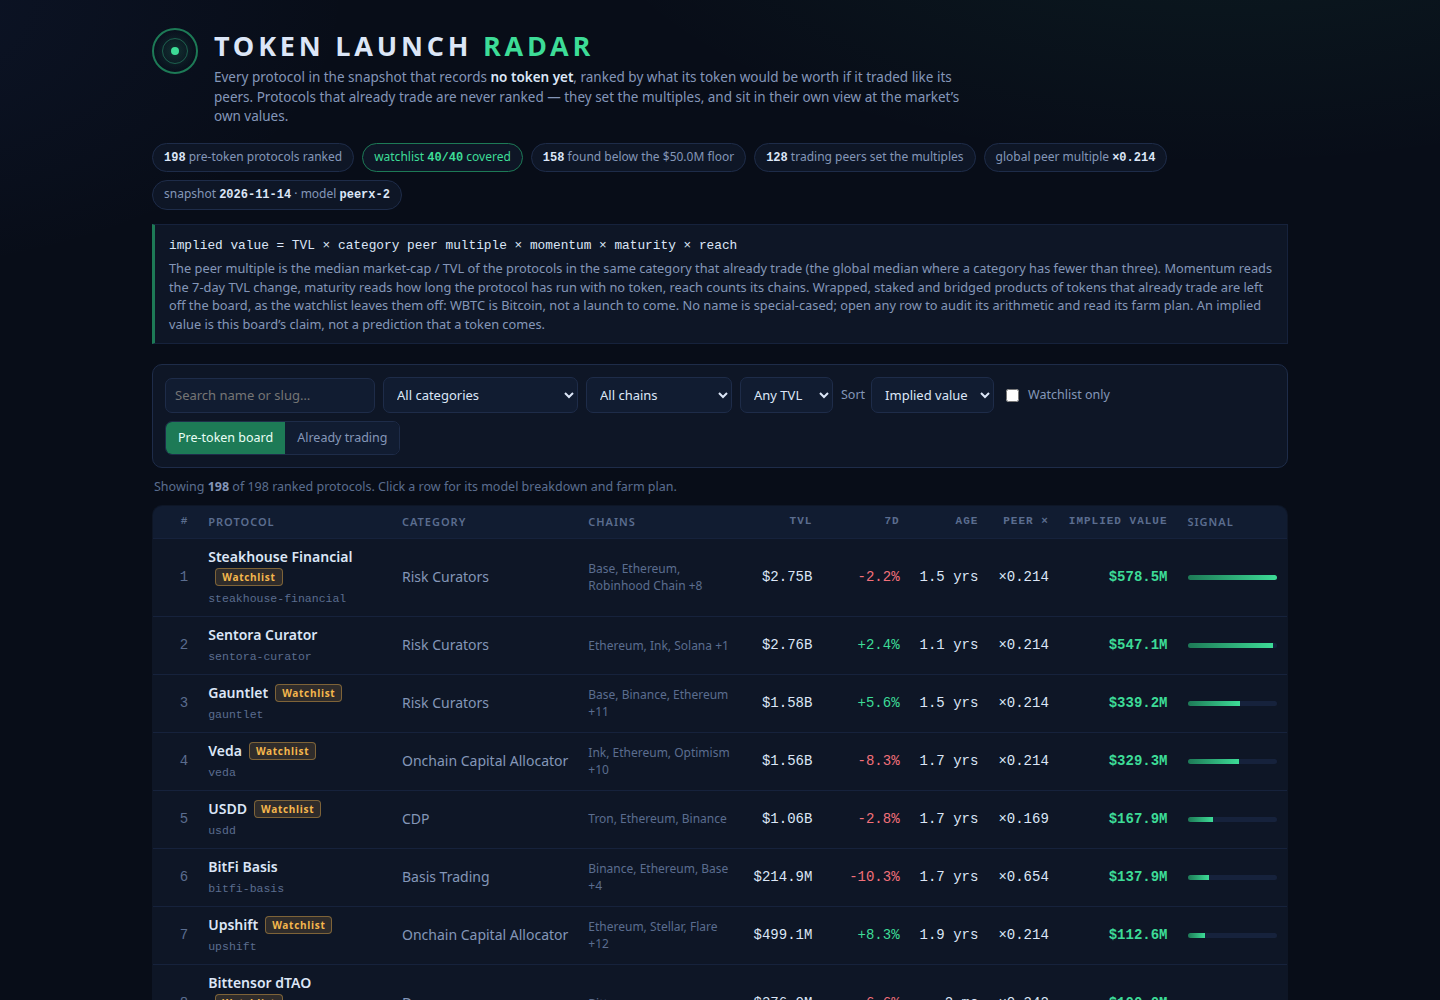
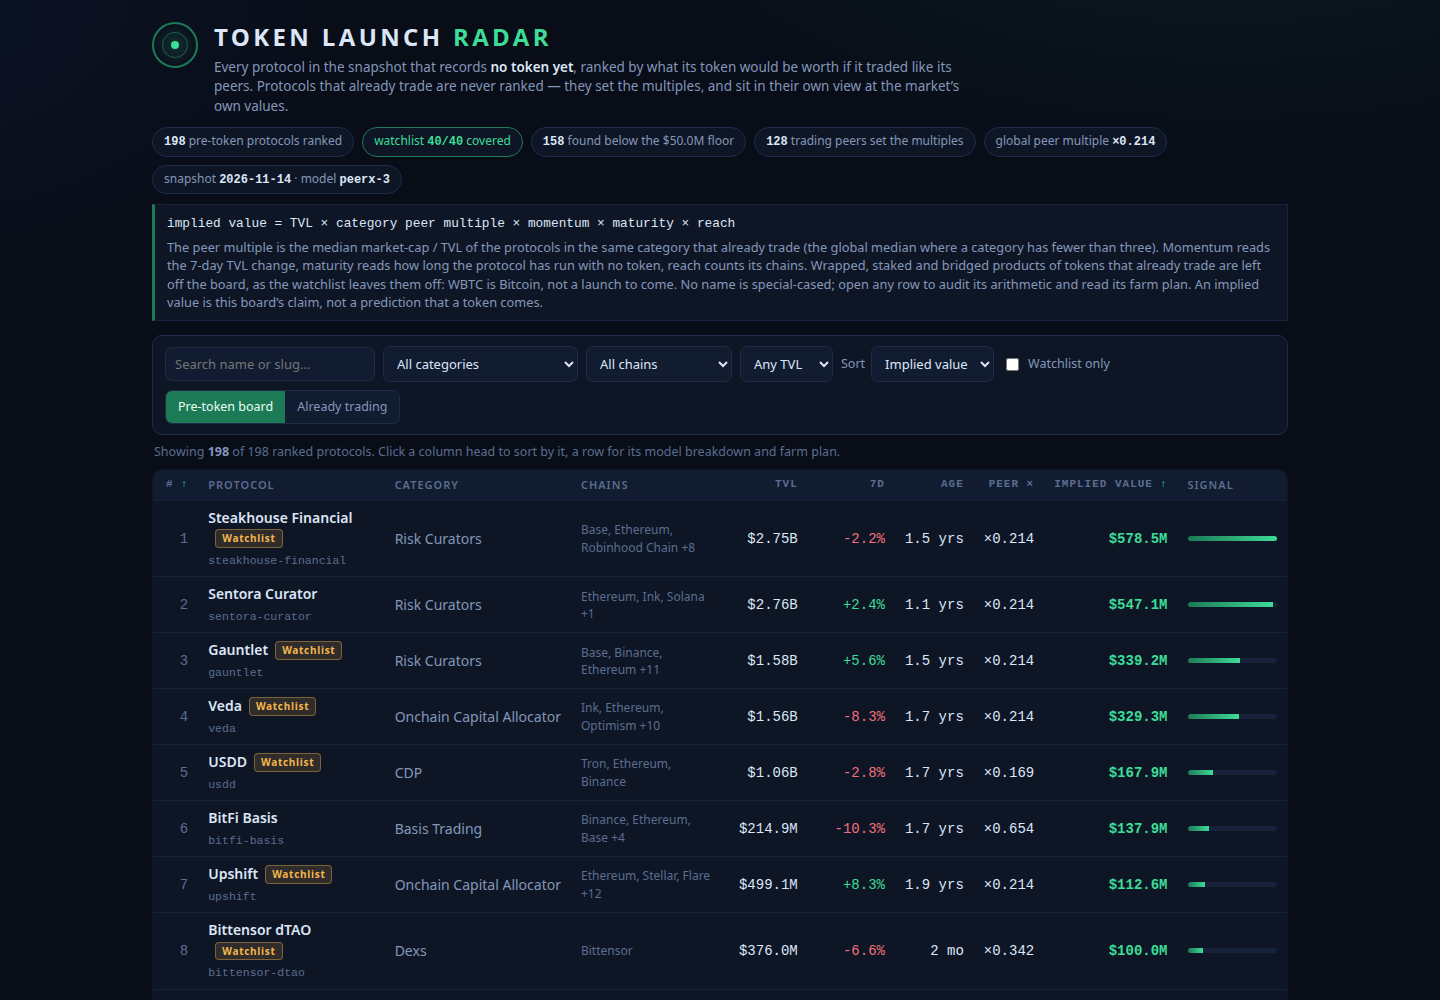
peerx-3: plan totals and curator plans in the model; sortable column heads, sensitivity check and a denser board in the dashboard
- lib/model.ts: farm_summary per row (capital, gas over the plan, time all-in,
  hold window) computed from the same figures the steps state; a curator/
  allocator farm-plan shape (the board's top rows are curators); model peerx-3.
- dashboard: column heads sort (click toggles direction, synced with the sort
  select); detail view shows the plan totals strip and a sensitivity line
  (neutral-week value, global-median counterfactual); tighter header so the
  board shows more rows.
- screenshots re-rendered from the new build (1440x1000).

diff --git a/dashboard/app.js b/dashboard/app.js
@@ -43,7 +43,7 @@
   /* State ----------------------------------------------------------------- */
 
   function parseHash() {
-    var s = { view: 'board', slug: '', q: '', cat: '', chain: '', sort: 'rank', wl: '', min: '' };
+    var s = { view: 'board', slug: '', q: '', cat: '', chain: '', sort: 'rank', dir: '', wl: '', min: '' };
     var h = location.hash.replace(/^#/, '');
     h.split('&').forEach(function (pair) {
       var kv = pair.split('=');
@@ -54,7 +54,7 @@
   function hashOf(s) {
     var parts = [];
     Object.keys(s).forEach(function (k) {
-      if (s[k] !== '' && !(k === 'view' && s[k] === 'board') && !(k === 'sort' && s[k] === 'rank')) {
+      if (s[k] !== '' && !(k === 'view' && s[k] === 'board') && !(k === 'sort' && s[k] === 'rank' && s.dir === '')) {
         parts.push(encodeURIComponent(k) + '=' + encodeURIComponent(s[k]));
       }
     });
@@ -123,8 +123,19 @@
       age: function (a, b) { return (b.age_days == null ? -1 : b.age_days) - (a.age_days == null ? -1 : a.age_days); },
       name: function (a, b) { return a.name < b.name ? -1 : 1; }
     };
-    rows.sort(by[s.sort] || by.rank);
+    var cmp = by[s.sort] || by.rank;
+    if (s.dir !== '' && s.dir !== naturalDir(s.sort)) cmp = function (a, b) { return -cmp(a, b); };
+    rows.sort(cmp);
     return rows;
+  }
+
+  /* Each sort key's natural direction: the way its column reads best first. A header click takes the
+     natural direction, a second click on the same header reverses it. */
+  function naturalDir(key) { return key === 'rank' || key === 'name' ? 'asc' : 'desc'; }
+  function sortArrow(s, key) {
+    if ((s.sort || 'rank') !== key) return '';
+    var dir = s.dir !== '' ? s.dir : naturalDir(key);
+    return ' <span class="arr">' + (dir === 'asc' ? '\u2191' : '\u2193') + '</span>';
   }
 
   function boardView(s) {
@@ -154,14 +165,17 @@
       '<span class="spacer"></span>' +
       '<span class="seg"><button id="v-board" class="on">Pre-token board</button><button id="v-live">Already trading</button></span>' +
       '</div>' +
-      '<p class="count">Showing <b>' + rows.length + '</b> of ' + D.rows.length + ' ranked protocols. Click a row for its model breakdown and farm plan.</p>';
+      '<p class="count">Showing <b>' + rows.length + '</b> of ' + D.rows.length + ' ranked protocols. Click a column head to sort by it, a row for its model breakdown and farm plan.</p>';
 
     if (rows.length === 0) {
       html += '<div class="empty">No protocol matches those filters. Loosen one and sweep again.</div>';
     } else {
-      html += '<table><thead><tr><th class="num">#</th><th>Protocol</th><th>Category</th><th>Chains</th>' +
-        '<th class="num">TVL</th><th class="num">7d</th><th class="num">Age</th><th class="num">Peer \u00d7</th>' +
-        '<th class="num">Implied value</th><th>Signal</th></tr></thead><tbody>';
+      html += '<table><thead><tr><th class="num sortable" data-sort="rank" title="Sort by implied value">#' + sortArrow(s, 'rank') + '</th>' +
+        '<th class="sortable" data-sort="name" title="Sort by name">Protocol' + sortArrow(s, 'name') + '</th><th>Category</th><th>Chains</th>' +
+        '<th class="num sortable" data-sort="tvl" title="Sort by TVL">TVL' + sortArrow(s, 'tvl') + '</th>' +
+        '<th class="num sortable" data-sort="change" title="Sort by 7-day TVL change">7d' + sortArrow(s, 'change') + '</th>' +
+        '<th class="num sortable" data-sort="age" title="Sort by age with no token">Age' + sortArrow(s, 'age') + '</th><th class="num">Peer \u00d7</th>' +
+        '<th class="num sortable" data-sort="rank" title="Sort by implied value">Implied value' + sortArrow(s, 'rank') + '</th><th>Signal</th></tr></thead><tbody>';
       rows.forEach(function (r) {
         var tags = (r.watchlist ? '<span class="tag wl">Watchlist</span>' : '') +
           (!r.watchlist && r.tvl_usd < D.floor_usd ? '<span class="tag early">Early</span>' : '');
@@ -217,8 +231,21 @@
       '<tr><td>\u00d7 reach (' + r.chains.length + ' chain' + (r.chains.length === 1 ? '' : 's') + ')</td><td class="num">' + mult(m.reach_multiplier) + '</td></tr>' +
       '<tr class="total"><td>Implied value</td><td class="num">' + money(r.implied_value_usd) + '</td></tr></table>' +
       '<p class="note">Cross-check inside the steps: base \u00d7 momentum alone is ' + money(Math.round(afterMomentum)) + ', and \u00d7 maturity is ' +
-      money(Math.round(afterMaturity)) + '. The same formula scores every row on the board; nothing about ' + esc(r.name) + ' itself is an input beyond its record above.</p></div>' +
-      '<div class="panel"><h3>Farm plan — what to do before any token</h3><ol class="plan">' +
+      money(Math.round(afterMaturity)) + '. Sensitivity: with a neutral week (momentum \u00d71.0) the value would be ' +
+      money(Math.round(r.implied_value_usd / m.momentum_multiplier)) +
+      (m.multiple_source.indexOf('category') === 0
+        ? ', and priced at the global median multiple (' + mult(D.global_multiple) + ') instead of its category\u2019s it would be ' +
+          money(Math.round(r.implied_value_usd * D.global_multiple / m.multiple)) + '.'
+        : '. Its category has too few trading peers to set its own multiple, so the global median above is the price.') +
+      ' The same formula scores every row on the board; nothing about ' + esc(r.name) + ' itself is an input beyond its record above.</p></div>' +
+      '<div class="panel"><h3>Farm plan — what to do before any token</h3>' +
+      (r.farm_summary ? '<div class="planstrip">' +
+        '<span>Capital at work <b>' + money(r.farm_summary.capital_usd) + '</b></span>' +
+        '<span>Gas over the whole plan <b>' + (r.farm_summary.gas_usd < 1 ? 'under $1' : '\u2248$' + Math.round(r.farm_summary.gas_usd)) + '</b></span>' +
+        '<span>Time all-in <b>' + (r.farm_summary.minutes >= 60 ? '\u2248' + Math.floor(r.farm_summary.minutes / 60) + 'h' + (r.farm_summary.minutes % 60 ? ' ' + (r.farm_summary.minutes % 60) + 'm' : '') : r.farm_summary.minutes + ' min') + '</b></span>' +
+        '<span>Hold <b>' + r.farm_summary.hold_days + ' days</b> over ' + r.farm_summary.weeks + ' weeks</span>' +
+        '</div>' : '') +
+      '<ol class="plan">' +
       r.farm_steps.map(function (stepText) { return '<li>' + esc(stepText) + '</li>'; }).join('') +
       '</ol><p class="note"><b>Risk note:</b> a farm plan is a starting point, not advice. Smart-contract and bridge risk are real; ' +
       'keep position sizes survivable, and treat any \u201cclaim fee\u201d as a scam.</p></div>';
@@ -278,7 +305,16 @@
     var min = document.getElementById('min');
     if (min) min.addEventListener('change', function () { upd({ min: min.value }); });
     var sort = document.getElementById('sort');
-    if (sort) sort.addEventListener('change', function () { upd({ sort: sort.value }); });
+    if (sort) sort.addEventListener('change', function () { upd({ sort: sort.value, dir: '' }); });
+    Array.prototype.forEach.call(document.querySelectorAll('th[data-sort]'), function (th) {
+      th.addEventListener('click', function () {
+        var key = th.getAttribute('data-sort');
+        var cur = parseHash();
+        var eff = cur.dir !== '' ? cur.dir : naturalDir(cur.sort || 'rank');
+        if ((cur.sort || 'rank') === key) upd({ sort: key, dir: eff === 'asc' ? 'desc' : 'asc' });
+        else upd({ sort: key, dir: '' });
+      });
+    });
     var wl = document.getElementById('wl');
     if (wl) wl.addEventListener('change', function () { upd({ wl: wl.checked ? '1' : '' }); });
     Array.prototype.forEach.call(document.querySelectorAll('tbody tr[data-slug]'), function (tr) {

diff --git a/lib/model.ts b/lib/model.ts
@@ -79,7 +79,7 @@ export const MODEL: ModelConstants = {
 };
 
 /** The model's version label: the dashboard names it and the board's rows carry it. */
-export const MODEL_VERSION = 'peerx-2';
+export const MODEL_VERSION = 'peerx-3';
 
 /** How many already-trading protocols the dashboard's reference view carries, by market cap. */
 export const LIVE_ROWS = 24;
@@ -111,6 +111,16 @@ export interface BoardRow {
     age_days: number | null;
   };
   farm_steps: string[];
+  farm_summary: FarmSummary;
+}
+
+/** One farm plan's totals, derived from the same figures its steps state: what the whole plan costs. */
+export interface FarmSummary {
+  capital_usd: number;
+  gas_usd: number;
+  weeks: number;
+  hold_days: number;
+  minutes: number;
 }
 
 /** The dashboard's view of one board row: the row itself, farm plan included. */
@@ -305,6 +315,7 @@ export function buildBoard(snapshot: Snapshot, model: ModelConstants = MODEL): B
       age_days: s.v.age,
     },
     farm_steps: farmSteps(s.p, s.v.age),
+    farm_summary: farmSummary(s.p, s.v.age),
   }));
 }
 
@@ -315,16 +326,16 @@ export function buildBoard(snapshot: Snapshot, model: ModelConstants = MODEL): B
 // states what to do, what it costs and how long it takes.
 // ---------------------------------------------------------------------------
 
-/** What one transaction roughly costs on the protocol's first chain. */
-function gasProfile(p: SnapshotProtocol): { label: string; oneTx: string; weekly: string } {
+/** What one transaction roughly costs on the protocol's first chain, in words and in figures. */
+function gasProfile(p: SnapshotProtocol): { label: string; oneTx: string; weekly: string; txUsd: number; weeklyUsd: number } {
   const chain = (p.chains[0] ?? '').toLowerCase();
-  if (chain === 'ethereum') return { label: 'Ethereum mainnet', oneTx: 'about $18 of ETH in gas', weekly: 'about $12 of ETH a week' };
-  if (chain === 'solana') return { label: 'Solana', oneTx: 'under $1 of SOL in fees', weekly: 'under $1 of SOL a week' };
+  if (chain === 'ethereum') return { label: 'Ethereum mainnet', oneTx: 'about $18 of ETH in gas', weekly: 'about $12 of ETH a week', txUsd: 18, weeklyUsd: 12 };
+  if (chain === 'solana') return { label: 'Solana', oneTx: 'under $1 of SOL in fees', weekly: 'under $1 of SOL a week', txUsd: 0.1, weeklyUsd: 0.1 };
   if (['arbitrum', 'base', 'optimism', 'zksync era', 'scroll', 'linea', 'mantle', 'mode', 'blast', 'taiko'].includes(chain)) {
-    return { label: p.chains[0]!, oneTx: 'about $2 of ETH in gas', weekly: 'about $2 of ETH a week' };
+    return { label: p.chains[0]!, oneTx: 'about $2 of ETH in gas', weekly: 'about $2 of ETH a week', txUsd: 2, weeklyUsd: 2 };
   }
-  if (chain === '') return { label: 'its main chain', oneTx: 'about $5 of gas', weekly: 'about $4 of gas a week' };
-  return { label: p.chains[0]!, oneTx: 'about $3 of gas', weekly: 'about $3 of gas a week' };
+  if (chain === '') return { label: 'its main chain', oneTx: 'about $5 of gas', weekly: 'about $4 of gas a week', txUsd: 5, weeklyUsd: 4 };
+  return { label: p.chains[0]!, oneTx: 'about $3 of gas', weekly: 'about $3 of gas a week', txUsd: 3, weeklyUsd: 3 };
 }
 
 /** The position size one farm wallet carries, from the protocol's own TVL. */
@@ -412,7 +423,14 @@ function actionsFor(p: SnapshotProtocol, capital: number, chainLabel: string): {
       weekly: `claim the yield once and leave it in the wallet as a balance the protocol can see`,
     };
   }
-  // Yield, curators, allocators, aggregators and every other category share the vault shape.
+  if (c.includes('curator') || c.includes('allocator')) {
+    return {
+      open: `Deposit $${capital} of USDC into ${n}'s largest vault on ${chainLabel} and keep the vault shares in the wallet`,
+      deepen: `Read the vault's current allocations and the curator's risk notes, then add about $${Math.round(capital * 0.5)} more only while the vault still holds the assets its page names`,
+      weekly: `check the vault's allocation and any curator announcement once, and move to the curator's other vault if its mandate or asset list changes`,
+    };
+  }
+  // Yield, aggregators and every other category share the vault shape.
   return {
     open: `Deposit $${capital} of USDC into ${n}'s main vault or strategy on ${chainLabel} and keep the vault shares in the wallet`,
     deepen: `Move about a third of the position into a second ${n} vault or strategy, so the wallet uses more than one product`,
@@ -458,6 +476,21 @@ export function farmSteps(p: SnapshotProtocol, age: number | null): string[] {
       '10 minutes to write, 15 minutes to unwind',
     ),
   ];
+}
+
+/**
+ * A plan's totals, from the same figures its steps state: the capital the position carries, the gas
+ * of the four one-off transactions (fund, open, deepen, unwind) plus the weekly actions and checks,
+ * and the minutes the steps name, week by week. The dashboard shows them beside the plan so a reader
+ * sees the whole cost before the first step.
+ */
+export function farmSummary(p: SnapshotProtocol, age: number | null): FarmSummary {
+  const gas = gasProfile(p);
+  const hold = holdDaysFor(age);
+  const weeks = Math.ceil(hold / 7);
+  const gasUsd = Math.round((gas.txUsd * 4 + gas.weeklyUsd * weeks) * 100) / 100;
+  const minutes = 10 + 15 + 15 + weeks * 10 + weeks * 5 + 10 + 15;
+  return { capital_usd: capitalFor(p), gas_usd: gasUsd, weeks, hold_days: hold, minutes };
 }
 
 /** The already-trading protocols, by market cap, for the dashboard's reference view. */

diff --git a/dashboard/app.css b/dashboard/app.css
@@ -32,7 +32,7 @@ body {
   line-height: 1.45;
 }
 
-main { max-width: 1180px; margin: 0 auto; padding: 26px 22px 40px; }
+main { max-width: 1180px; margin: 0 auto; padding: 20px 22px 40px; }
 
 a { color: var(--mint); text-decoration: none; }
 a:hover { text-decoration: underline; }
@@ -51,13 +51,13 @@ a:hover { text-decoration: underline; }
 .scope::before { inset: 8px; }
 .scope::after { inset: 17px; background: var(--mint); border: none; }
 .masthead h1 {
-  margin: 0; font-size: 27px; letter-spacing: 0.14em; font-weight: 700; text-transform: uppercase;
+  margin: 0; font-size: 24px; letter-spacing: 0.14em; font-weight: 700; text-transform: uppercase;
 }
 .masthead h1 .thin { color: var(--mint); }
 .tagline { margin: 3px 0 0; color: var(--dim); font-size: 13.5px; max-width: 760px; }
 .tagline b { color: var(--text); font-weight: 600; }
 
-.chips { display: flex; flex-wrap: wrap; gap: 8px; margin: 16px 0 0; }
+.chips { display: flex; flex-wrap: wrap; gap: 8px; margin: 11px 0 0; }
 .chip {
   border: 1px solid var(--line); background: var(--panel); border-radius: 999px;
   padding: 4px 11px; font-size: 12px; color: var(--dim); white-space: nowrap;
@@ -67,8 +67,8 @@ a:hover { text-decoration: underline; }
 .chip.hot b { color: var(--mint); }
 
 .method {
-  margin-top: 14px; border: 1px solid var(--line-soft); border-left: 3px solid var(--mint-dim);
-  background: var(--panel); padding: 10px 14px; color: var(--dim); font-size: 12.8px;
+  margin-top: 10px; border: 1px solid var(--line-soft); border-left: 3px solid var(--mint-dim);
+  background: var(--panel); padding: 8px 12px; color: var(--dim); font-size: 12.8px;
 }
 .method .formula { font-family: var(--mono); color: var(--text); font-size: 12.8px; }
 .method p { margin: 4px 0 0; }
@@ -77,7 +77,7 @@ a:hover { text-decoration: underline; }
 
 .controls {
   display: flex; flex-wrap: wrap; gap: 8px; align-items: center;
-  margin: 20px 0 10px; padding: 12px; border: 1px solid var(--line);
+  margin: 14px 0 8px; padding: 10px 12px; border: 1px solid var(--line);
   background: var(--panel); border-radius: 10px;
 }
 .controls input[type="search"], .controls select {
@@ -99,7 +99,10 @@ a:hover { text-decoration: underline; }
 /* Board table ------------------------------------------------------------- */
 
 table { width: 100%; border-collapse: collapse; background: var(--panel); border: 1px solid var(--line); border-radius: 10px; overflow: hidden; }
-th, td { padding: 8px 10px; text-align: left; border-bottom: 1px solid var(--line-soft); vertical-align: middle; }
+th, td { padding: 7px 10px; text-align: left; border-bottom: 1px solid var(--line-soft); vertical-align: middle; }
+th.sortable { cursor: pointer; }
+th.sortable:hover { color: var(--mint); }
+th .arr { color: var(--mint); font-size: 10px; }
 th {
   font-size: 11px; letter-spacing: 0.09em; text-transform: uppercase; color: var(--faint);
   background: var(--panel-2); font-weight: 600; white-space: nowrap;
@@ -147,6 +150,13 @@ tbody tr:hover { background: rgba(61, 220, 151, 0.05); }
 .panel td, .panel th { border-bottom: 1px solid var(--line-soft); padding: 6px 8px; }
 .panel tr:last-child td { border-bottom: 0; }
 .total td { font-weight: 700; color: var(--mint); }
+
+.planstrip {
+  display: flex; flex-wrap: wrap; gap: 8px 18px; margin: 0 0 12px; padding: 8px 12px;
+  border: 1px solid var(--line-soft); border-radius: 7px; background: var(--panel-2);
+  color: var(--dim); font-size: 12.5px;
+}
+.planstrip b { color: var(--text); font-family: var(--mono); font-weight: 600; }
 
 ol.plan { margin: 0; padding-left: 21px; }
 ol.plan li { margin: 0 0 10px; }

diff --git a/README.md b/README.md
@@ -4,7 +4,7 @@
 [![rank](https://make.fun/badge/token-radar-01/laoyalaoliu/makefun-token-radar-01/rank.svg)](https://make.fun/bounty/token-radar-01/leaderboard?utm_source=github&utm_medium=readme&utm_campaign=token-radar-01)
 [![reward](https://make.fun/badge/token-radar-01/laoyalaoliu/makefun-token-radar-01/reward.svg)](https://make.fun/bounty/token-radar-01?utm_source=github&utm_medium=readme&utm_campaign=token-radar-01)
 
-A token launch radar with a peer-multiple model. It reads the competition's sealed DefiLlama snapshot (758 protocols) and ranks all 198 protocols that record no token yet — every one of the 40 watchlist slugs plus 158 early protocols found below the $50M floor — by implied value: TVL × the median market-cap/TVL multiple of the trading protocols in the same category, adjusted for 7-day momentum, for how long the protocol has run with no token, and for chain reach. Wrapped, staked and bridged products of tokens that already trade (WBTC and its kin) are excluded under the watchlist's own rule. Protocols that already trade are never ranked; they form the peer set and appear in the dashboard's separate reference view at the market's own values. Every board row carries a six-step farm plan with costs and times, generated from the protocol's own category, chains, TVL and age. The dashboard (in `dashboard/`, fed by the generated `data.js`) is sortable and filterable, with a per-protocol detail view that shows the model's arithmetic line by line. `main.ts` (Node 22, standard library only) writes `board.json`, the dashboard data, and the judge's `dossier.json`.
+A token launch radar with a peer-multiple model. It reads the competition's sealed DefiLlama snapshot (758 protocols) and ranks all 198 protocols that record no token yet — every one of the 40 watchlist slugs plus 158 early protocols found below the $50M floor — by implied value: TVL × the median market-cap/TVL multiple of the trading protocols in the same category, adjusted for 7-day momentum, for how long the protocol has run with no token, and for chain reach. Wrapped, staked and bridged products of tokens that already trade (WBTC and its kin) are excluded under the watchlist's own rule. Protocols that already trade are never ranked; they form the peer set and appear in the dashboard's separate reference view at the market's own values. Every board row carries a six-step farm plan with costs and times, generated from the protocol's own category, chains, TVL and age, plus the plan's totals — capital at work, gas over the whole plan, time all-in and the holding window. The dashboard (in `dashboard/`, fed by the generated `data.js`) is sortable (the column heads sort too) and filterable, with a per-protocol detail view that shows the model's arithmetic line by line and a sensitivity check: what the value would be with a neutral week, or priced at the global median multiple instead of its category's. `main.ts` (Node 22, standard library only) writes `board.json`, the dashboard data, and the judge's `dossier.json`.
 
 ## Run it
 
